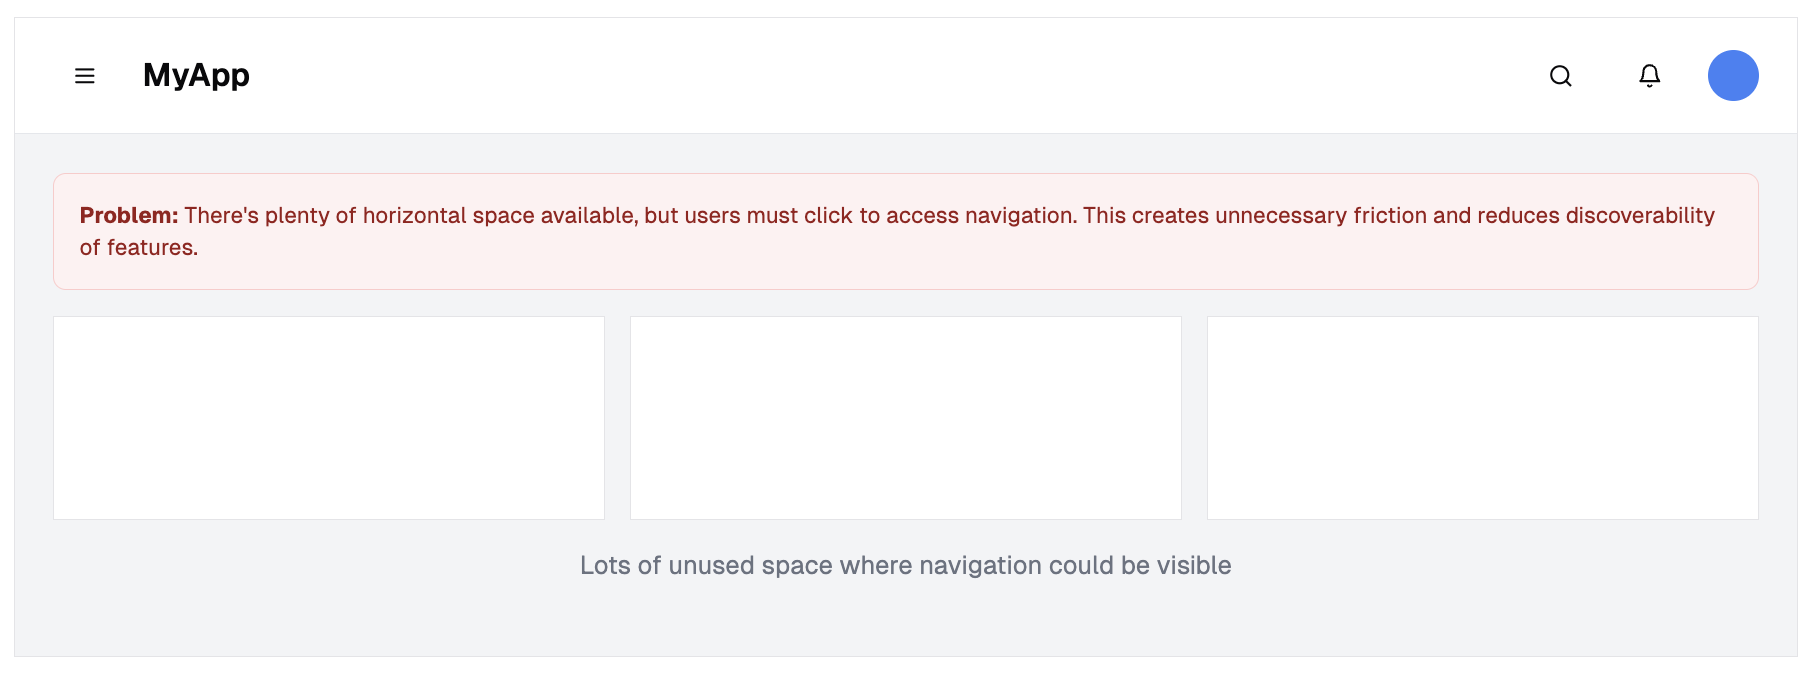
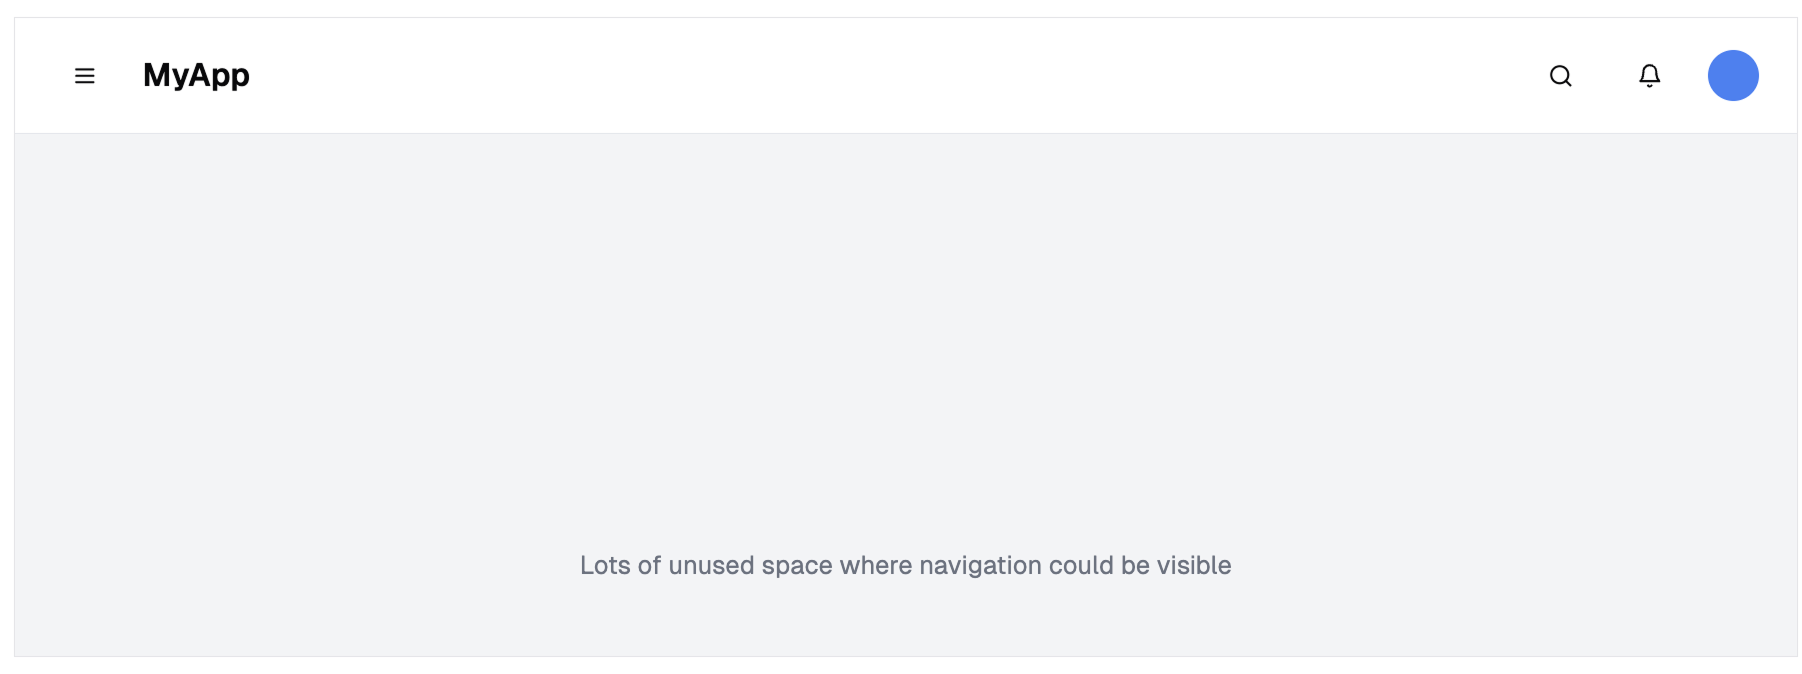
XS ◾ remove long hyphens + updated images (#11183)
> 1. What triggered this change? (PBI link, Email Subject, conversation
+ reason, etc)
Meeting with Adam

> 2. What was changed?
Long hyphens and images

> 3. I paired or mob programmed with: <!-- list names or remove if not
relevant -->
 n/a

Changed region(s): [[0.0311, 0.3116, 0.9634, 0.3739]]

diff --git a/rules/hamburger-menu/rule.md b/rules/hamburger-menu/rule.md
@@ -12,7 +12,7 @@ created: 2025-06-23T12:55:00.000Z
 guid: 22b8eb69-c8d6-4dbf-9ac8-41959ef1f273
 ---
 
-Hamburger menus are everywhere—those three stacked lines that hide site or app navigation. They became popular for decluttering mobile UIs, but they come at a cost: reduced discoverability, slower navigation, and lower engagement.
+Hamburger menus are everywhere. Those three stacked lines that hide site or app navigation. They became popular for decluttering mobile UIs, but they come at a cost: reduced discoverability, slower navigation, and lower engagement.
 
 <!--endintro-->
 
@@ -21,7 +21,7 @@ Hamburger menus are everywhere—those three stacked lines that hide site or app
 
 ## When should you use a hamburger menu?
 
-Use it **only when screen space is tight**—typically on mobile. Otherwise, always prefer showing navigation visibly.
+Use it **only when screen space is tight** (typically on mobile). Otherwise, always prefer showing navigation visibly.
 
 ::: greybox
 A desktop web app with ample space hides primary navigation behind a hamburger menu.
@@ -37,15 +37,6 @@ A mobile app uses a hamburger menu to preserve space while offering a clean, foc
 ![Figure: Good example – On mobile, screen space is limited, so hiding the nav behind a hamburger is appropriate](hamburger-menu-good-example.png)
 :::
 
-## Where should you place it?
-
-| Device/Platform      | Preferred Placement | Why                                                                 |
-|----------------------|---------------------|----------------------------------------------------------------------|
-| **Android apps**     | Top left            | Matches Material Design and Android conventions                     |
-| **iOS apps**         | Top right           | Aligns with iOS patterns; better for right-thumb reach              |
-| **Mobile websites**  | Top left            | Consistent with web standards; easier for navigation + back button  |
-| **Desktop websites** | Top left (if used)  | Only use if screen space is constrained (e.g. dashboards)           |
-
 ### ❌ Common mistakes to avoid
 
 * **Using a top-right hamburger on desktop** – This breaks user expectations. On desktop, primary navigation belongs on the left or fully visible
@@ -56,8 +47,8 @@ A mobile app uses a hamburger menu to preserve space while offering a clean, foc
 
 * Use the **standard 3-line icon** – don't reinvent it
 * Include **clear animation or toggle state**
-* Make sure it's **easy to reach** on mobile—don’t place in hard-to-tap corners
+* Make sure it's **easy to reach** on mobile, don’t place in hard-to-tap corners
 * If you only have a logo + menu, favor **left placement** for balance and ergonomics
 * Test with users to confirm comprehension and usability
 
-Use the hamburger menu only when needed, place it where users expect it, and never use it as an excuse to hide important navigation. Always test your decisions—navigation is too important to guess.
+Use the hamburger menu only when needed, place it where users expect it, and never use it as an excuse to hide important navigation. Always test your decisions, navigation is too important to guess.
